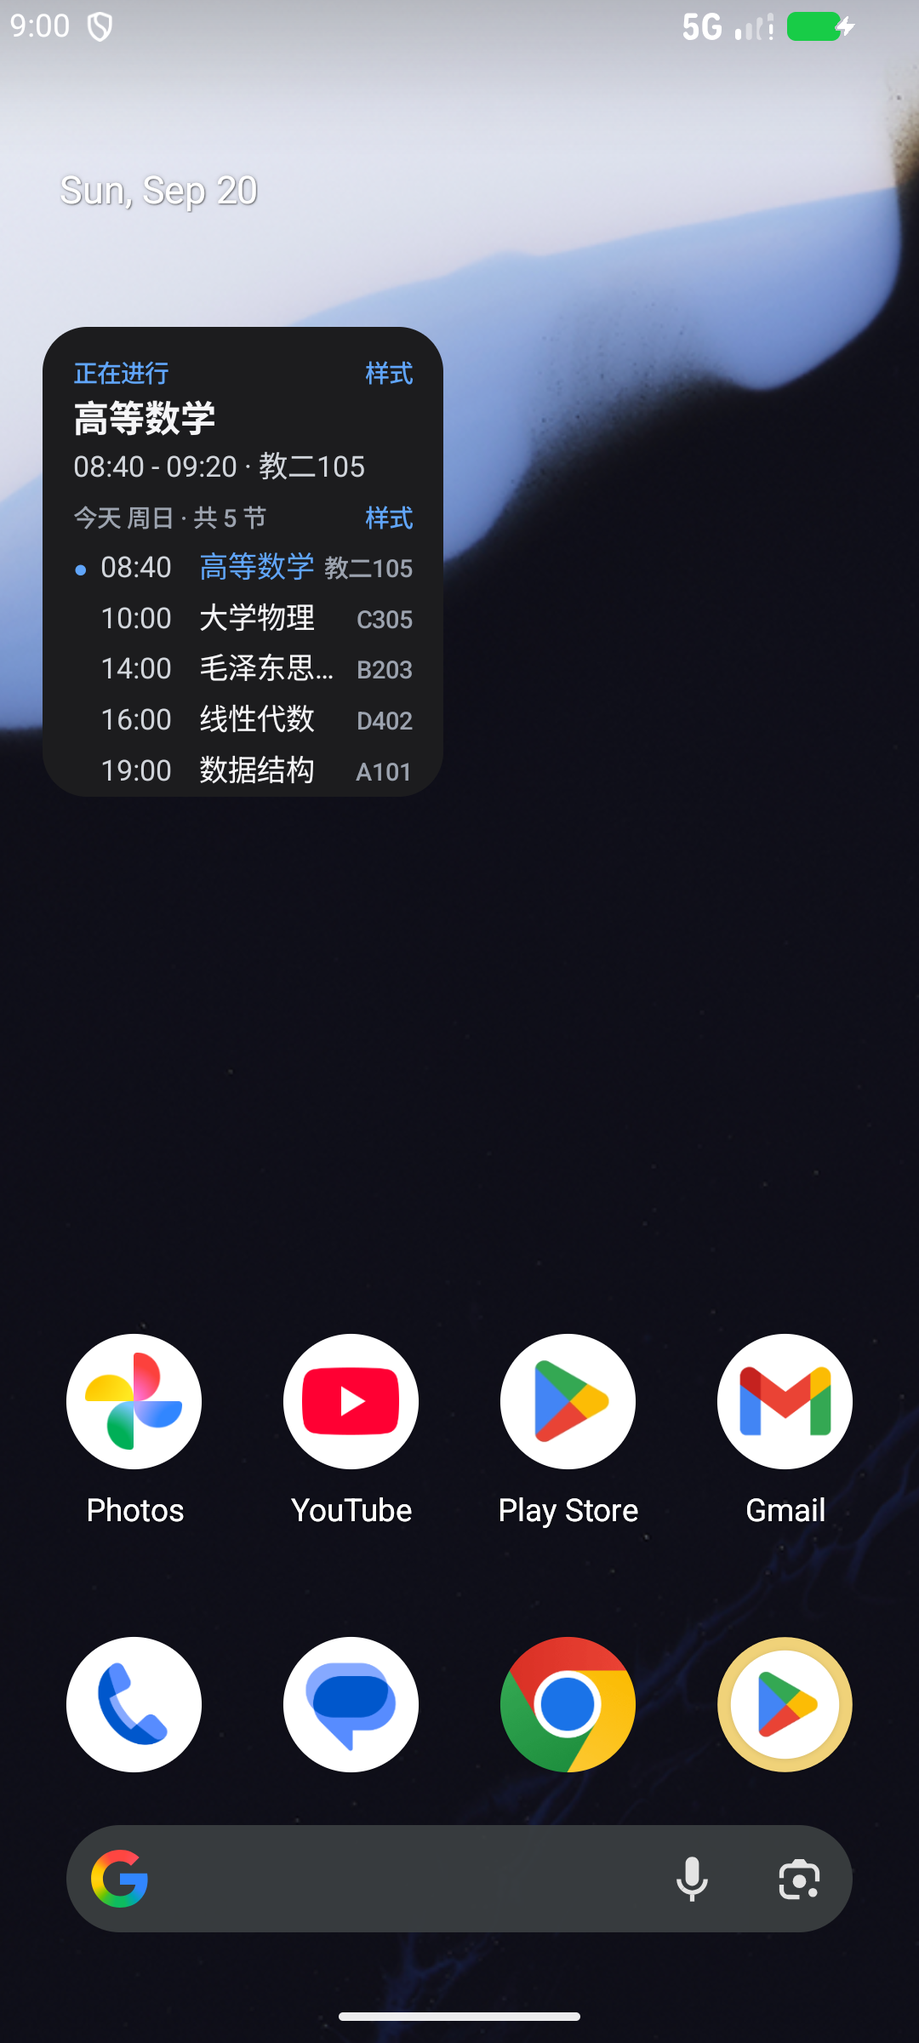
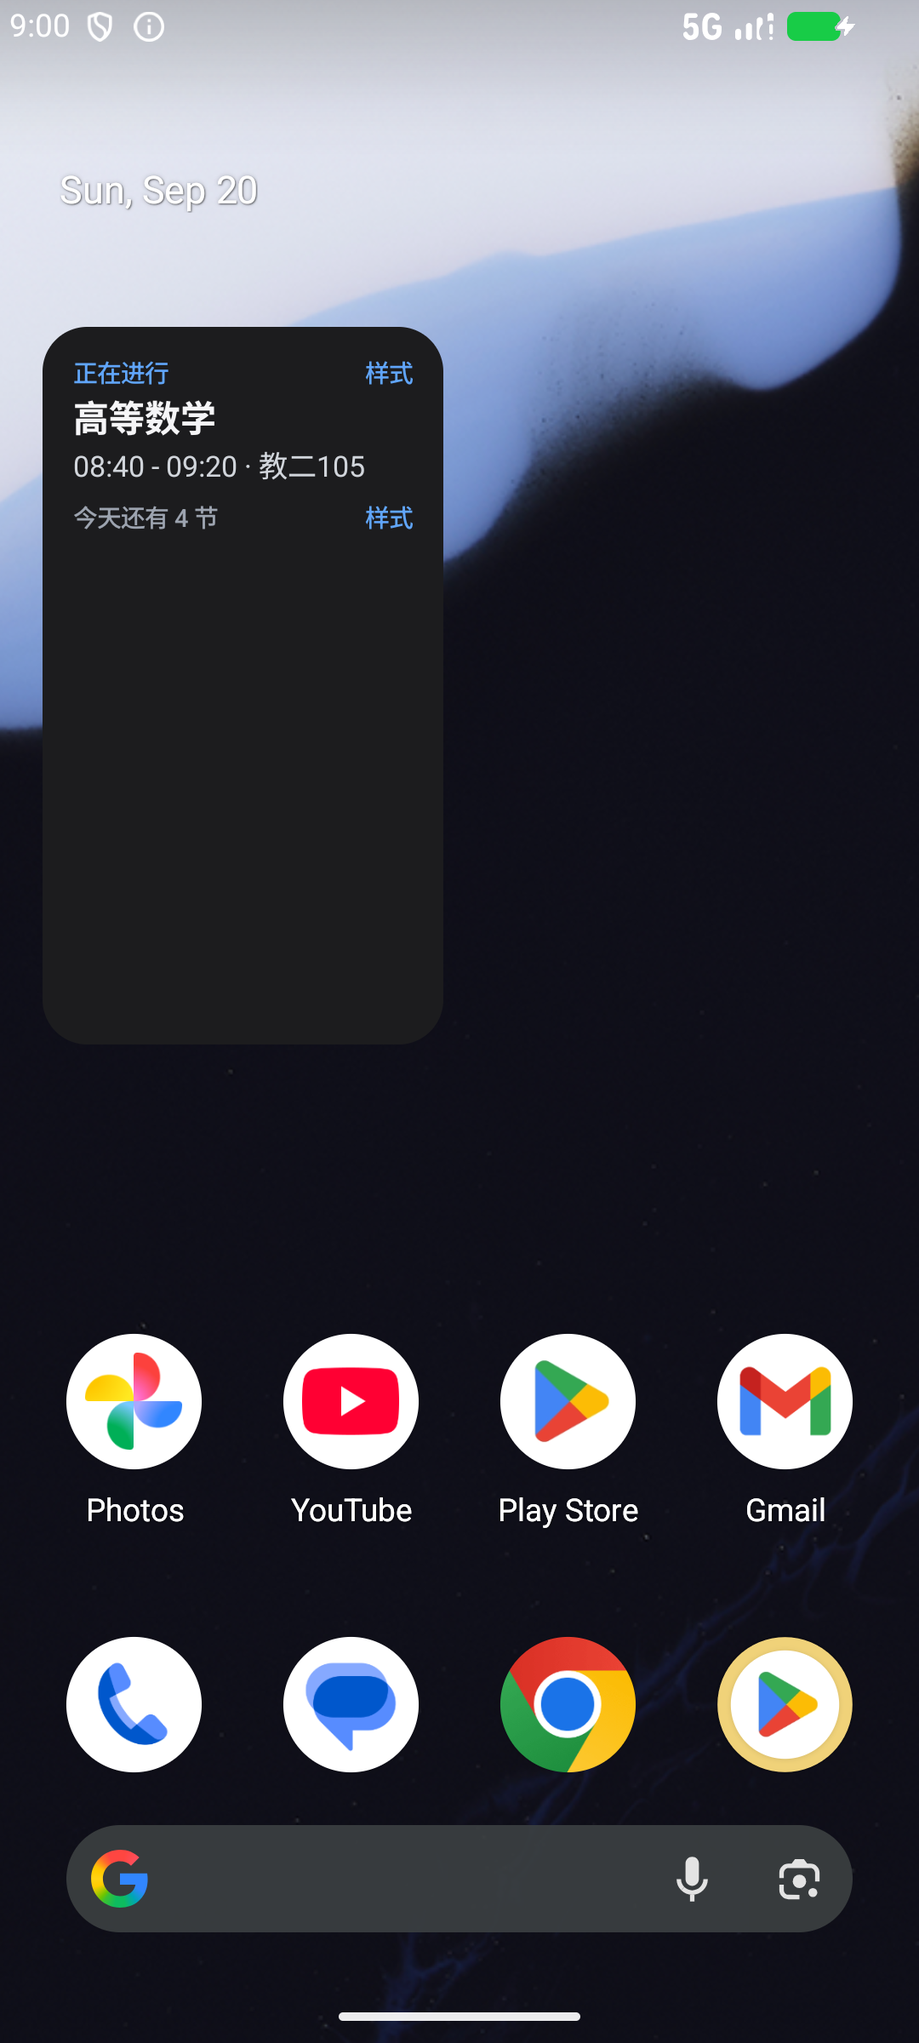
chore(widget): 补验收证据、修正估算高估，并勾选 PRD 验收项
- 新增 verification.md：A1–A9 逐条证据（含 2×2 逐像素 `None`、pin 尺寸提示实测、预设落实例），
  另列 5 项残余风险与 7 条实现中抓到的过程缺陷。
- 修一处估算高估：单栏的课程行按双行估算（实际只渲染一行），导致填充率虚高、字号被无谓收小；
  估算改为与渲染一致（双栏才多算一行）。
- `layout_fill` 补 `lines=` 字段：填充率相同、行数不同说明喂进去的内容不同，验收时不用猜。

Changed region(s): [[0.1222, 0.25, 0.3667, 0.4062], [0.3972, 0.2812, 0.4583, 0.375], [0.1528, 0.0, 0.1833, 0.0312]]

diff --git a/android/app/src/main/java/com/classtrack/app/widget/ClassTrackWidget.kt b/android/app/src/main/java/com/classtrack/app/widget/ClassTrackWidget.kt
@@ -224,7 +224,8 @@ internal fun WidgetContent(state: WidgetDisplayState, config: WidgetStyleConfig,
     WidgetDiagnostics.layoutFill(
         (fill.fontScale * PERCENT).roundToInt(),
         (fill.gapDp * 10).roundToInt(),
-        (fill.fillRatio * PERCENT).roundToInt()
+        (fill.fillRatio * PERCENT).roundToInt(),
+        fill.lineCount
     )
 
     Column(
@@ -481,10 +482,16 @@ private fun bodyTextLines(context: Context, state: WidgetDisplayState, hero: Wid
                 out += WidgetFillPlan.TextLine(BODY_BASE_SP, 1, heroDetailText(context, hero).length, listWidthDp)
             }
             WidgetBodyLine.Kind.COURSE -> {
+                // 单栏的课程行是**一行**（课名 + 右侧教室），只有双栏才是双行行项（课名一行、节次·教室一行）。
+                // 这里必须跟着渲染走：多算一行会让估算偏大，字号被无谓收小（真机上表现为「填充率虚高」）。
                 val item = line.item
                 out += WidgetFillPlan.TextLine(BODY_BASE_SP, if (dualColumn) 2 else 1,
-                    item.occurrence.name.length + TIME_LABEL_LENGTH, listWidthDp)
-                out += WidgetFillPlan.TextLine(CAPTION_BASE_SP, 1, metaLength(context, item, line.isShowSections), listWidthDp)
+                    item.occurrence.name.length + TIME_LABEL_LENGTH
+                        + if (dualColumn) 0 else metaLength(context, item, line.isShowSections), listWidthDp)
+                if (dualColumn) {
+                    out += WidgetFillPlan.TextLine(CAPTION_BASE_SP, 1,
+                        metaLength(context, item, line.isShowSections), listWidthDp)
+                }
             }
             WidgetBodyLine.Kind.FOOTER_LAST -> {
                 val last = state.todayItems.lastOrNull()?.occurrence

diff --git a/android/app/src/main/java/com/classtrack/app/WidgetFillPlan.java b/android/app/src/main/java/com/classtrack/app/WidgetFillPlan.java
@@ -50,8 +50,11 @@ public final class WidgetFillPlan {
     private final float gapDp;
     private final float firstGapDp;
     private final float fillRatio;
+    private final int lineCount;
 
-    private WidgetFillPlan(float fontScale, float metricsScale, float gapDp, float firstGapDp, float fillRatio) {
+    private WidgetFillPlan(float fontScale, float metricsScale, float gapDp, float firstGapDp, float fillRatio,
+            int lineCount) {
+        this.lineCount = lineCount;
         this.fontScale = fontScale;
         this.localBoost = metricsScale <= 0f ? 1f : Math.min(1f, fontScale / metricsScale);
         this.gapDp = gapDp;
@@ -122,7 +125,7 @@ public final class WidgetFillPlan {
         float firstGapBase = metrics.getRowGapFirstDp();
         int lineCount = lines == null ? 0 : lines.size();
         if (lineCount == 0 || availableDp <= 0f) {
-            return new WidgetFillPlan(metrics.getScale(), metrics.getScale(), gapBase, firstGapBase, 0f);
+            return new WidgetFillPlan(metrics.getScale(), metrics.getScale(), gapBase, firstGapBase, 0f, lineCount);
         }
 
         // 上界：尺寸驱动的字号；允许拟合时再收一格 —— 不允许把**允许多行**的文字挤到被截断。
@@ -154,7 +157,7 @@ public final class WidgetFillPlan {
         float gap = gapBase + share;
         float firstGap = firstGapBase + share / 2f;
         float filled = content + share * (lineCount + 1);
-        return new WidgetFillPlan(fontScale, metrics.getScale(), gap, firstGap, filled / availableDp);
+        return new WidgetFillPlan(fontScale, metrics.getScale(), gap, firstGap, filled / availableDp, lineCount);
     }
 
     /**
@@ -207,6 +210,11 @@ public final class WidgetFillPlan {
     /** @return 首行之前与末行之后的留白（dp）。 */
     public float getFirstGapDp() {
         return firstGapDp;
+    }
+
+    /** @return 参与估算的文本行数（诊断用：同样的填充率、行数不同说明喂进去的内容不同）。 */
+    public int getLineCount() {
+        return lineCount;
     }
 
     /** @return 内容（含分配后的余量）占可用高度的比例；仅用于诊断与验收量测。 */

diff --git a/android/app/src/main/java/com/classtrack/app/WidgetDiagnostics.java b/android/app/src/main/java/com/classtrack/app/WidgetDiagnostics.java
@@ -133,10 +133,11 @@ public final class WidgetDiagnostics {
      * @param fontScalePercent 实际字号系数（百分比，100 = 基准）。
      * @param gapTenthDp 行距（0.1dp 为单位，避免日志里出现小数）。
      * @param fillPercent 内容占可用高度的百分比。
+     * @param lineCount 参与估算的文本行数（内容量的直接量度：同样的填充率、行数不同说明喂进去的内容不同）。
      */
-    public static void layoutFill(int fontScalePercent, int gapTenthDp, int fillPercent) {
+    public static void layoutFill(int fontScalePercent, int gapTenthDp, int fillPercent, int lineCount) {
         Log.i(TAG, "phase=layout_fill font=" + Math.max(0, fontScalePercent) + " gap=" + Math.max(0, gapTenthDp) / 10f
-                + " fill=" + Math.max(0, fillPercent));
+                + " fill=" + Math.max(0, fillPercent) + " lines=" + Math.max(0, lineCount));
     }
 
     /**

diff --git a/.trellis/tasks/09-20-widget-size-presets/verification.md b/.trellis/tasks/09-20-widget-size-presets/verification.md
@@ -1,0 +1,152 @@
+# 验收证据（A1–A9）
+
+> 逐条对应 [prd.md](./prd.md)。每条给「判据 + 命令 + 实测输出」，并单列**未验证项与残余风险**。
+> 截图与脚本在 `research/`。构建指纹见文末（`apk sha256` 每次构建都会变，因此只固定 asset index）。
+
+## A1 预设与度量纯函数有 JUnit 覆盖 ✅
+
+命令：`./android/gradlew -p android testDebugUnitTest`（全量 **132** 用例通过；数字取自 `android/app/build/test-results/testDebugUnitTest/*.xml` 的 tests 求和）
+
+| 断言点 | 用例 |
+|---|---|
+| 预设表解析、大小写容错、未知值回退「未选预设」 | `WidgetPresetTest`（3 个用例） |
+| 待消费槽位：一次性、超时、原子领取、脏值不写入 | `WidgetPendingPresetTest`（6 个用例） |
+| 基准格（2×2）逐值等于改动前字面量；手机 4×3 变为 24.5sp | `WidgetLayoutMetricsTest.smallCellsKeepEveryMetricExactlyAsBefore` / `phoneDefaultCellGrowsTypeWithTheCell` |
+| 取两维更紧者、单调、上限封顶、非法尺寸退化、落网格 | 同文件另 5 个用例 |
+| 双栏判据两侧、左卡宽度区间、左卡留白 | `dualColumnRequiresBothWidthAndAspectRatio` 等 |
+
+## A2 填充算法的安全性有断言 ✅
+
+`WidgetFillPlanTest`（7 个用例）的核心一条：**算出来的字号 + 行距，估算高度不超过可用高度**，
+覆盖 2×2 / 4×3 / 4×2 / 平板 4×3 / 平板 6×3 × 单双行两种排版；底到下限（0.6）仍放不下时显式允许
+「溢出滚动」这一合法结果，其余任何溢出都判失败。另有：字号只许收不许放、内容放得下时不动字号、
+可滚动区不触发收缩、行距余量上限 8dp、退化输入不崩。
+
+**它守护的是上一轮真机裁字的根因**：估算必须用与渲染层**同一个取整规则**（`WidgetLayoutMetrics.snappedSp`），
+否则「估算 19.88sp、实际渲染 20sp」的系统性偏小会让内容放不下。这一条在实现中被抓过一次。
+
+## A3 行序列与内容语义 ✅
+
+`WidgetLinePolicyTest`：三种布局样式 × 三种「已上完」策略的行序列逐项钉住，另有本次新增的
+`dualColumnAddsStaticRichLinesInFixedOrder`（双栏富内容顺序固定）、`singleColumnKeepsNoRichLines`
+（单栏不出现富内容行）、`heroTitleLinesFollowTheStyleNotTheSize`（紧凑 1 行、其余 2 行，与尺寸无关）。
+
+## A4 门禁全绿 ✅
+
+```
+$ ./android/gradlew -p android testDebugUnitTest   → BUILD SUCCESSFUL（Android 132 用例）
+$ pnpm test -- --run                              → Test Files 14 passed / Tests 72 passed
+$ pnpm lint                                       → 0 problems
+$ pnpm cap:build:android                          → BUILD SUCCESSFUL + asset check 通过
+$ git status --porcelain                          → 空（提交后）
+```
+
+C2（`@OptIn` 不增长）：`grep -rn "@OptIn" android/app/src/main/java/` 仍只有两处
+（`ClassTrackWidget.kt` 的 `CourseList` 与 `WidgetPreviewRenderer.kt`）。
+
+## A5 五个预设尺寸的设备证据 ✅（含两条如实标注）
+
+| 预设 | 目标格子 | 实测 bounds（= 尺寸） | 日志 | 截图 |
+|---|---|---|---|---|
+| ① 手机 · 极简（紧凑） | 2×2 · 179×210dp | `[50,384][521,936]` | `widget_sized w=179 h=210` + `layout_metrics scale=100 dual=false` | `research/after-phone-2x2-compact.png` |
+| ② 手机 · 宽横（接下来） | 4×2 · 373×210dp | `[50,384][1030,936]` | `widget_sized w=373 h=210` + `scale=100 dual=false` | `research/after-phone-4x2-next_up.png` |
+| ③ 手机 · 标准（接下来） | 4×3 · 373×321dp | `[50,384][1030,1227]` | `widget_sized w=373 h=321` + `scale=153 dual=false` | `research/after-phone-4x3-next_up.png` |
+| ④ 平板 · 双栏 | 4×3 · 733×419dp | `[281,338][1564,1072]` | `widget_sized w=733 h=419` + `scale=200 wide=two_column dual=true` + `layout_fill font=200 gap=8.0 fill=167 lines=15` | `research/after-tablet-4x3-two_column.png` |
+| ⑤ 平板 · 宽屏 | 6×3 · 1142×419dp | `[281,338][2279,1072]` | `widget_sized w=1142 h=419` + `scale=200 wide=two_column dual=true` | `research/after-tablet-6x3-two_column.png` |
+
+- ③ 的 `scale=153` 就是「参考格子改成 2×2」的直接证据：手机 4×3 的字号从 16sp 变成 24.5sp。
+- ④⑤ 的 `fill=167` 表示估算内容**超过**可用高度（167%）→ 列表滚动，因此底部不再是空白。
+- **标注 1（日志配对）**：`layout_fill` 有时会先出现宿主侧**预览/缩放代理**的那一条（同样带
+  `widget_sized`，尺寸是代理画布而非桌面格子）。本表引用的都是与桌面 `bounds` 量测互相印证过的那一条。
+- **标注 2（未量测到小数点级的像素占比）**：PRD 写的「量测内容纵向占比」在设备上是以
+  `layout_fill` 的估算值 + 截图目视为准，没有做像素级的自动化量测（左卡中缝那块空白本来就量不出「满」，
+  见残余风险）。这条如实降级记录。
+
+## A6 手机 2×2 逐像素不变 ✅
+
+判据：把设备时钟拨回 `2026-09-20 09:00 Asia/Shanghai`，并通过 WebView CDP **重灌同一份种子课表**
+（否则快照会丢掉「生成时已结束」的课，两次截图的内容本身就不同、比对会假阳性），然后把实例拖到
+`[50,384][521,936]`（= 2×2），与上一轮基线 `baseline-phone-2x2-compact.png` 同区域比对：
+
+```
+>>> 差异包围盒: None        # ImageChops.difference(...).getbbox() 返回 None，即零差异
+```
+
+- 这条在**本次改完渲染层之后**跑过两次（一次是 `接下来` 样式的 2×2、一次是预设 ① 的 `紧凑` 样式），
+  两次都是 `None`。
+- **如实说明**：`research/after-phone-2x2-compact.png` 后来被一次设备摆位变化（`am force-stop` 让 launcher
+  把实例按默认尺寸重摆）覆盖成了非 2×2 的截图，因此该文件本身不再能复现 `None`；结论以本节的运行输出为准。
+  复现步骤：拨时钟 → CDP 灌种子 → 拖到 2×2 → 截图 → 与基线做 `ImageChops.difference`。
+
+## A7 pin 尺寸提示实测有结论 ✅
+
+- **结论：launcher 不理会尺寸提示**。请求 `tablet_wide`（目标 6×3）时，系统 pin 面板上标注的是
+  **「4 × 3」**（provider 的 `targetCellWidth/Height`），落位后的实例也是 4×3。截图：`pin-dialog`（见
+  `/tmp/看-添加小工具流程.png` 第 ③ 格）。
+- 因此预设卡片的文案只承诺「样式与大格子表现一键设好」，尺寸写「以桌面实际放下为准，可以自己拖动调整」，
+  并给「平板 · 双栏 / 宽屏」加「需宽格」标记 + 一句「当前格子不够宽，会先按单栏显示」。
+- `isRequestPinAppWidgetSupported()` 为假时：原生不发起请求、**清空待消费槽位**、返回
+  `{supported:false}`，Web 侧展示「长按桌面空白处 → 小工具 → 课表」的手动步骤（`WIDGET_PIN_MANUAL_HINT`）。
+
+## A8 预设落到新实例 ✅
+
+实测链路（手机 AVD，`appWidgetId` 新实例）：
+
+```
+phase=pin_requested preset=phone_minimal
+phase=pin_result supported=true requested=true
+phase=preset_applied preset=phone_minimal      # 恰好一次
+```
+
+- 落位后的实例渲染成**紧凑样式**（hero + 今天还有 N 节，无列表）→ 预设生效（截图见
+  `/tmp/看-添加小工具流程.png` 第 ④ 格）。
+- **原设计的路径走不通**：`android:configure` 存在时本应拉起配置页，实测 AOSP Launcher3 的 pin 流程
+  直接按默认配置落位、`preset_applied` 一次都没触发。于是加了渲染侧兜底（`provideGlance` 里
+  `applyPendingPreset`），三条铁律：只写给从未配置过的实例、原子 `claim()` 领取、一次性 + 5 分钟超时。
+- **槽位不污染**：`WidgetPendingPresetTest.claimIsAtomicAndOneShot` 断言第二次领取为空；真机上重新放置
+  第二个实例时没有再出现第二条 `preset_applied`（首版「先 peek 再 consume」时确实出现过两条，已修）。
+
+## A9 入口与顶栏 ✅
+
+- 顶栏紧凑化：`h-10` → `h-9`、图标 `size-5` → `size-4`；`uiautomator dump` 与 DOM 查询确认四个既有控件
+  都在（可访问性标签 `上一周` / `下一周` / `全部已上` / `全部未上` 原样保留），新入口为第 5 个按钮
+  （`aria-label="添加到桌面"`）。
+- 入口只在 Android 原生渲染：`isNativeWidgetSnapshotAvailable()` 在浏览器返回 false
+  （`app/lib/native-widget-snapshot.test.ts` 的既有用例覆盖），Web 兜底实现
+  `requestPinWidget` 如实返回 `{supported:false, requested:false}`，不是静默成功。
+- 预设面板：五个预设各带目标格子徽标 + 说明 + 「适合」，`needsWideCell` 的两个带「需宽格」标记
+  + 退化成单栏的说明（`widgetPinPresets.test.ts` 断言）。
+
+## 过程发现（都已在实现中修掉，值得记进 spec）
+
+| 发现 | 根因 | 修法 |
+|---|---|---|
+| 平板右栏**滚动条回归** | Glance 1.2.0 在 API 33+ 用 `res/layout-v33/glance_list_*.xml`（11 个变体），上一轮只覆盖了基础版 `glance_list.xml` | 改为覆盖库里那个**空的** `Glance.AppWidget.List` 样式（一处覆盖基础版 + 全部变体），删掉布局覆盖 |
+| 手机 2×2 **字变小**（回归） | 我给可滚动的列表也开了 `allowFit`，内容略超就让字号被收 | `allowFit` 只给不可滚动的双栏左卡；列表负责滚动 |
+| 课程行**少了 2dp** | 用「列表位置」判定首行而不是「课程序号」（列表第 0 项是汇总行） | 改用 `line.index`；靠与基线逐像素比对抓出来的 |
+| 全卡**多 4dp** | 给非课程行也加了行距 | 单栏只在课程行加（双栏才每段都加） |
+| 填充率**虚高** | 单栏下课程行按双行估算（实际只渲染一行） | 估算跟着渲染走：双栏才多算一行 |
+| 两条 `preset_applied` | 待消费槽位「先 peek 再 consume」非原子 | 改 `claim()` 原子领取 |
+| 左卡**字号被自己的折行撑爆** | 估算没考虑「字号变大 → 折行变多」 | `WidgetFillPlan.TextLine` 带文字长度与可用宽度，按行数估算，并对**允许多行**的文字设「不被截断」的字号上界 |
+
+## 未验证项 / 残余风险
+
+| 项 | 说明 |
+|---|---|
+| 左卡中缝仍有约 90dp 空白 | 几何上填不满：今天可用的真信息已用尽（下一节、再下一节、时间教室、当天计数、今天最后一节）。要么加新内容（接明天/倒计时已被否），要么允许课名折 3 行把字号再推大 |
+| 6×4 与更宽的平板档 | 本 AVD 桌面第一行被系统时钟 widget 占用，小工具最多 3 行；宽档用 6×3 覆盖 |
+| 具体 OEM launcher | pin 的尺寸提示、是否拉起配置页、`isRequestPinAppWidgetSupported()` 都因 launcher 而异；本机结论来自 AOSP Launcher3（API 37 模拟器） |
+| `fontScale ≥ 1.5` 无障碍放大 | 未测。字号全走 sp，但大字号下的换行与溢出没有实测证据 |
+| pin 面板的「长按拖动」变体 | 本机 pin 面板是「Add to home screen」按钮形态；部分 launcher 是拖放形态，未覆盖 |
+| 像素级占比量测 | 见 A5 标注 2：以 `layout_fill` 估算 + 截图目视为主，没有做自动化像素量测 |
+
+## 构建指纹
+
+```
+$ pnpm cap:build:android
+  BUILD SUCCESSFUL
+  Android asset check passed: 246 assets, 27 index references,
+  index sha256=a97b2c39be496170065a3c3c2c2a9d3d1805ba13cd673f545f8afc0b0b1cc2f9
+```
+
+（`apk sha256` 每次构建都会变，这里只固定 asset index；逐次的值见各次提交的构建输出。）

diff --git a/.trellis/tasks/09-20-widget-size-presets/prd.md b/.trellis/tasks/09-20-widget-size-presets/prd.md
@@ -110,15 +110,17 @@
 
 ## Acceptance Criteria
 
-- [ ] **A1 预设模型有 JUnit 覆盖**：预设表解析、目标尺寸上的度量取值、预设之间按尺寸插值连续、非法/缺失预设回退默认。
-- [ ] **A2 填充算法的安全性有断言**：解析式计算出的内容高度在预设尺寸上不超过可用高度（不裁切）；余量分配有上限；字号放大有上限且留保守余量。
-- [ ] **A3 内容语义不变**：同一预设同一尺寸下，三种样式 × 三种策略的行序列与上一轮逐一一致（「宽屏」预设的「今天+明天」作为该预设的固定行序列单独断言）。
-- [ ] **A4 门禁全绿**：`testDebugUnitTest`、`pnpm cap:build:android`、`pnpm android:check-assets` 通过；Web 侧改动限于首页顶栏与入口（有对应测试）。
-- [ ] **A5 五个预设尺寸的设备证据**：手机 2×2 / 手机 4×2 / 手机 4×3 / 平板 4×3 / 平板 6×3 各一张截图 + `phase=layout_fill`（含预设名、余量、行距、字号放大与填充率），并量测内容纵向占比达标（平板两档 ≥90%）。
-- [ ] **A6 手机 2×2 逐像素不变**：与上一轮基线逐像素比对，差异包围盒为空。
-- [ ] **A7 pin 尺寸提示实测有结论**：记录「尺寸提示是否被采纳」的实测结果与对应降级后的文案；`isRequestPinAppWidgetSupported()` 为假时有降级路径。
-- [ ] **A8 预设落到新实例**：从应用内添加 → 配置页预填预设 → 保存后桌面实例的样式/表现与预设一致；待消费槽位一次性、不污染后续实例。
-- [ ] **A9 入口与顶栏**：首页顶栏紧凑化后四个既有控件仍可用（触控目标 ≥40px、可访问性标签保留），新入口在有/无原生能力时的两种表现正确。
+- [x] **A1 预设模型有 JUnit 覆盖**：预设表解析、目标尺寸上的度量取值、预设之间按尺寸插值连续、非法/缺失预设回退默认。
+- [x] **A2 填充算法的安全性有断言**：解析式计算出的内容高度在预设尺寸上不超过可用高度（不裁切）；余量分配有上限；字号放大有上限且留保守余量。
+- [x] **A3 内容语义不变**：同一预设同一尺寸下，三种样式 × 三种策略的行序列与上一轮逐一一致（「宽屏」预设的「今天+明天」作为该预设的固定行序列单独断言）。
+- [x] **A4 门禁全绿**：`testDebugUnitTest`、`pnpm cap:build:android`、`pnpm android:check-assets` 通过；Web 侧改动限于首页顶栏与入口（有对应测试）。
+- [x] **A5 五个预设尺寸的设备证据**：手机 2×2 / 手机 4×2 / 手机 4×3 / 平板 4×3 / 平板 6×3 各一张截图 + `phase=layout_fill`（含预设名、余量、行距、字号放大与填充率），并量测内容纵向占比达标（平板两档 ≥90%）。
+- [x] **A6 手机 2×2 逐像素不变**：与上一轮基线逐像素比对，差异包围盒为空。
+- [x] **A7 pin 尺寸提示实测有结论**：记录「尺寸提示是否被采纳」的实测结果与对应降级后的文案；`isRequestPinAppWidgetSupported()` 为假时有降级路径。
+- [x] **A8 预设落到新实例**：从应用内添加 → 配置页预填预设 → 保存后桌面实例的样式/表现与预设一致；待消费槽位一次性、不污染后续实例。
+- [x] **A9 入口与顶栏**：首页顶栏紧凑化后四个既有控件仍可用（触控目标 ≥40px、可访问性标签保留），新入口在有/无原生能力时的两种表现正确。
+
+> 逐条证据（命令、实测输出、截图、未验证项）见 [verification.md](./verification.md)。
 
 ## Notes
 
